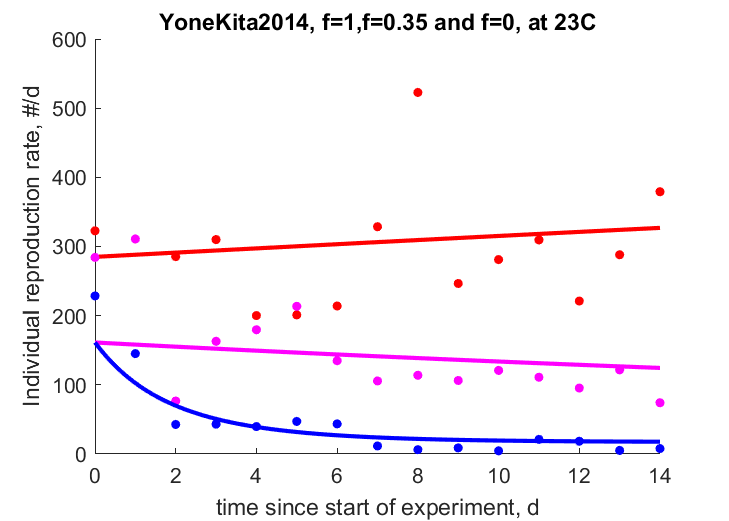
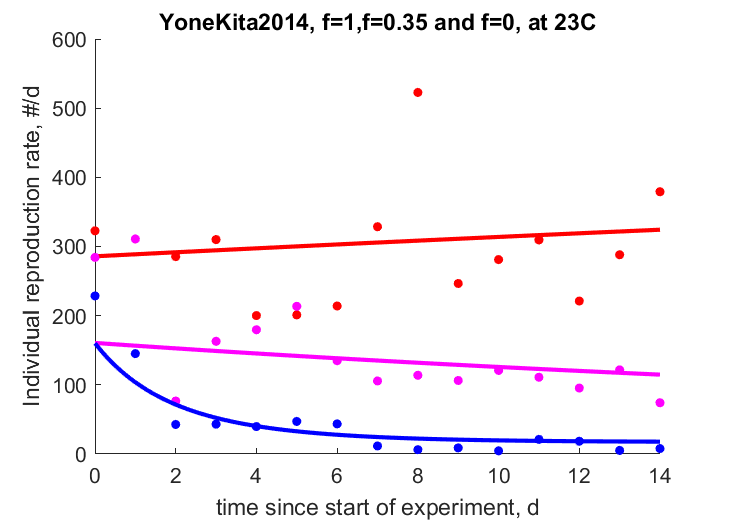
Reintroduced del_Mb for 0var data

diff --git a/Engraulis_japonicus_res.html b/Engraulis_japonicus_res.html
@@ -44,7 +44,7 @@
   </div>
 
   <div class="par">
-  <h4>COMPLETE = 3.0; MRE =    0.131; SMSE =    0.169 </h4>
+  <h4>COMPLETE = 3.0; MRE =    0.156; SMSE =    0.174 </h4>
   </div>
 
   <p class="clear"></p>
@@ -53,38 +53,38 @@
   <h2>Data & predictions</h2>
   <TABLE id="prd">
     <TR  class="head"><TH>data</TH> <TH>prd</TH> <TH>RE</TH>  <TH>symbol</TH> <TH>units</TH> <TH>description</TH> </TR>
-    <TR><TD>3.3</TD> <TD>3.91</TD> <TD>0.1849</TD> <TD>ab</TD> <TD>d</TD> <TD>age at birth</TD></TR>
-    <TR><TD> 29</TD> <TD>26.66</TD> <TD>0.08077</TD> <TD>tj</TD> <TD>d</TD> <TD>age at metamorphosis</TD></TR>
-    <TR><TD> 96</TD> <TD>96.04</TD> <TD>0.0004378</TD> <TD>tp_20</TD> <TD>d</TD> <TD>time since birth at puberty</TD></TR>
-    <TR><TD> 88</TD> <TD>89.68</TD> <TD>0.0191</TD> <TD>tp_m20</TD> <TD>d</TD> <TD>time since birth at puberty</TD></TR>
-    <TR><TD> 65</TD> <TD>61.41</TD> <TD>0.05524</TD> <TD>tp_26</TD> <TD>d</TD> <TD>time since birth at puberty</TD></TR>
-    <TR><TD> 60</TD> <TD>57.34</TD> <TD>0.04431</TD> <TD>tp_m26</TD> <TD>d</TD> <TD>time since birth at puberty</TD></TR>
-    <TR><TD>1462</TD> <TD>1464</TD> <TD>0.001709</TD> <TD>am</TD> <TD>d</TD> <TD>life span</TD></TR>
-    <TR><TD>0.3347</TD> <TD>0.3348</TD> <TD>0.0002522</TD> <TD>Lb</TD> <TD>cm</TD> <TD>standard length at birth</TD></TR>
-    <TR><TD>2.64</TD> <TD>2.647</TD> <TD>0.002749</TD> <TD>Lj</TD> <TD>cm</TD> <TD>standard length at metamorphosis</TD></TR>
-    <TR><TD>  7</TD> <TD>7.551</TD> <TD>0.07866</TD> <TD>Lp</TD> <TD>cm</TD> <TD>standard length at puberty</TD></TR>
-    <TR><TD>  7</TD> <TD>7.18</TD> <TD>0.02578</TD> <TD>Lp_m</TD> <TD>cm</TD> <TD>standard length at puberty</TD></TR>
-    <TR><TD>15.22</TD> <TD>14.18</TD> <TD>0.06827</TD> <TD>Li</TD> <TD>cm</TD> <TD>ultimate standard length</TD></TR>
-    <TR><TD>0.00025</TD> <TD>0.0002427</TD> <TD>0.02905</TD> <TD>Wwb</TD> <TD>g</TD> <TD>wet weight at birth</TD></TR>
-    <TR><TD> 45</TD> <TD>44.95</TD> <TD>0.001105</TD> <TD>Wwi</TD> <TD>g</TD> <TD>ultimate wet weight</TD></TR>
-    <TR><TD>600</TD> <TD>590.2</TD> <TD>0.01628</TD> <TD>Ri</TD> <TD>#/d</TD> <TD>maximum reprod rate</TD></TR>
-    <TR><TD colspan="2">see figure</TD> <TD>0.01218</TD> <TD>Tah</TD> <TD colspan="2">temperature, <font color="blue"><i>vs.</i></font> age at hatching</TD>
-    <TR><TD colspan="2">see figure</TD> <TD>0.2418</TD> <TD>tR_f1_19</TD> <TD colspan="2">time since start of experiment, <font color="blue"><i>vs.</i></font> Individual reproduction rate</TD>
-    <TR><TD colspan="2">see figure</TD> <TD>0.2036</TD> <TD>tR_f1_23</TD> <TD colspan="2">time since start of experiment, <font color="blue"><i>vs.</i></font> Individual reproduction rate</TD>
-    <TR><TD colspan="2">see figure</TD> <TD>0.4004</TD> <TD>tR_f35_19</TD> <TD colspan="2">time since start of experiment, <font color="blue"><i>vs.</i></font> Individual reproduction rate</TD>
-    <TR><TD colspan="2">see figure</TD> <TD>0.3092</TD> <TD>tR_f35_23</TD> <TD colspan="2">time since start of experiment, <font color="blue"><i>vs.</i></font> Individual reproduction rate</TD>
-    <TR><TD colspan="2">see figure</TD> <TD>0.7612</TD> <TD>tR_f0_19</TD> <TD colspan="2">time since start of experiment, <font color="blue"><i>vs.</i></font> Individual reproduction rate</TD>
-    <TR><TD colspan="2">see figure</TD> <TD>0.3806</TD> <TD>tR_f0_23</TD> <TD colspan="2">time since start of experiment, <font color="blue"><i>vs.</i></font> Individual reproduction rate</TD>
-    <TR><TD colspan="2">see figure</TD> <TD>0.1036</TD> <TD>tL</TD> <TD colspan="2">time since birth, <font color="blue"><i>vs.</i></font> standard length</TD>
-    <TR><TD colspan="2">see figure</TD> <TD>0.1129</TD> <TD>tL_juv</TD> <TD colspan="2">time since birth, <font color="blue"><i>vs.</i></font> standard length</TD>
-    <TR><TD colspan="2">see figure</TD> <TD>0.1736</TD> <TD>LW</TD> <TD colspan="2">standard length, <font color="blue"><i>vs.</i></font> wet weight</TD>
-    <TR><TD colspan="2">see figure</TD> <TD>0.1079</TD> <TD>LWw</TD> <TD colspan="2">standard length, <font color="blue"><i>vs.</i></font> wet weight</TD>
-    <TR class="psd"><TD>0.02</TD> <TD>0.03628</TD> <TD>0.8142</TD> <TD>psd.v</TD> <TD>cm/d</TD> <TD>energy conductance</TD></TR>
-    <TR class="psd"><TD>0.8</TD> <TD>0.8333</TD> <TD>0.04158</TD> <TD>psd.kap</TD> <TD>-</TD> <TD>allocation fraction to soma</TD></TR>
+    <TR><TD>3.3</TD> <TD>3.942</TD> <TD>0.1945</TD> <TD>ab</TD> <TD>d</TD> <TD>age at birth</TD></TR>
+    <TR><TD> 29</TD> <TD>29.11</TD> <TD>0.003913</TD> <TD>tj</TD> <TD>d</TD> <TD>age at metamorphosis</TD></TR>
+    <TR><TD> 96</TD> <TD>90.96</TD> <TD>0.05251</TD> <TD>tp_20</TD> <TD>d</TD> <TD>time since birth at puberty</TD></TR>
+    <TR><TD> 88</TD> <TD>85.34</TD> <TD>0.03024</TD> <TD>tp_m20</TD> <TD>d</TD> <TD>time since birth at puberty</TD></TR>
+    <TR><TD> 65</TD> <TD> 61</TD> <TD>0.06151</TD> <TD>tp_26</TD> <TD>d</TD> <TD>time since birth at puberty</TD></TR>
+    <TR><TD> 60</TD> <TD>57.23</TD> <TD>0.04611</TD> <TD>tp_m26</TD> <TD>d</TD> <TD>time since birth at puberty</TD></TR>
+    <TR><TD>1462</TD> <TD>1341</TD> <TD>0.08248</TD> <TD>am</TD> <TD>d</TD> <TD>life span</TD></TR>
+    <TR><TD>0.3347</TD> <TD>0.3769</TD> <TD>0.1259</TD> <TD>Lb</TD> <TD>cm</TD> <TD>standard length at birth</TD></TR>
+    <TR><TD>2.64</TD> <TD>2.332</TD> <TD>0.1166</TD> <TD>Lj</TD> <TD>cm</TD> <TD>standard length at metamorphosis</TD></TR>
+    <TR><TD>  7</TD> <TD>8.058</TD> <TD>0.1512</TD> <TD>Lp</TD> <TD>cm</TD> <TD>standard length at puberty</TD></TR>
+    <TR><TD>  7</TD> <TD>7.696</TD> <TD>0.09943</TD> <TD>Lp_m</TD> <TD>cm</TD> <TD>standard length at puberty</TD></TR>
+    <TR><TD>15.22</TD> <TD>13.97</TD> <TD>0.08207</TD> <TD>Li</TD> <TD>cm</TD> <TD>ultimate standard length</TD></TR>
+    <TR><TD>0.00025</TD> <TD>0.0002234</TD> <TD>0.1063</TD> <TD>Wwb</TD> <TD>g</TD> <TD>wet weight at birth</TD></TR>
+    <TR><TD> 45</TD> <TD>45.92</TD> <TD>0.02034</TD> <TD>Wwi</TD> <TD>g</TD> <TD>ultimate wet weight</TD></TR>
+    <TR><TD>600</TD> <TD>582.5</TD> <TD>0.02916</TD> <TD>Ri</TD> <TD>#/d</TD> <TD>maximum reprod rate</TD></TR>
+    <TR><TD colspan="2">see figure</TD> <TD>0.03983</TD> <TD>Tah</TD> <TD colspan="2">temperature, <font color="blue"><i>vs.</i></font> age at hatching</TD>
+    <TR><TD colspan="2">see figure</TD> <TD>0.2398</TD> <TD>tR_f1_19</TD> <TD colspan="2">time since start of experiment, <font color="blue"><i>vs.</i></font> Individual reproduction rate</TD>
+    <TR><TD colspan="2">see figure</TD> <TD>0.2007</TD> <TD>tR_f1_23</TD> <TD colspan="2">time since start of experiment, <font color="blue"><i>vs.</i></font> Individual reproduction rate</TD>
+    <TR><TD colspan="2">see figure</TD> <TD>0.3839</TD> <TD>tR_f35_19</TD> <TD colspan="2">time since start of experiment, <font color="blue"><i>vs.</i></font> Individual reproduction rate</TD>
+    <TR><TD colspan="2">see figure</TD> <TD>0.293</TD> <TD>tR_f35_23</TD> <TD colspan="2">time since start of experiment, <font color="blue"><i>vs.</i></font> Individual reproduction rate</TD>
+    <TR><TD colspan="2">see figure</TD> <TD>0.7501</TD> <TD>tR_f0_19</TD> <TD colspan="2">time since start of experiment, <font color="blue"><i>vs.</i></font> Individual reproduction rate</TD>
+    <TR><TD colspan="2">see figure</TD> <TD>0.3756</TD> <TD>tR_f0_23</TD> <TD colspan="2">time since start of experiment, <font color="blue"><i>vs.</i></font> Individual reproduction rate</TD>
+    <TR><TD colspan="2">see figure</TD> <TD>0.09927</TD> <TD>tL</TD> <TD colspan="2">time since birth, <font color="blue"><i>vs.</i></font> standard length</TD>
+    <TR><TD colspan="2">see figure</TD> <TD>0.1521</TD> <TD>tL_juv</TD> <TD colspan="2">time since birth, <font color="blue"><i>vs.</i></font> standard length</TD>
+    <TR><TD colspan="2">see figure</TD> <TD>0.2157</TD> <TD>LW</TD> <TD colspan="2">standard length, <font color="blue"><i>vs.</i></font> wet weight</TD>
+    <TR><TD colspan="2">see figure</TD> <TD>0.1107</TD> <TD>LWw</TD> <TD colspan="2">standard length, <font color="blue"><i>vs.</i></font> wet weight</TD>
+    <TR class="psd"><TD>0.02</TD> <TD>0.03659</TD> <TD>0.8295</TD> <TD>psd.v</TD> <TD>cm/d</TD> <TD>energy conductance</TD></TR>
+    <TR class="psd"><TD>0.8</TD> <TD>0.8814</TD> <TD>0.1018</TD> <TD>psd.kap</TD> <TD>-</TD> <TD>allocation fraction to soma</TD></TR>
     <TR class="psd"><TD>0.95</TD> <TD>0.95</TD> <TD>  0</TD> <TD>psd.kap_R</TD> <TD>-</TD> <TD>reproduction efficiency</TD></TR>
-    <TR class="psd"><TD> 18</TD> <TD>206.4</TD> <TD>10.47</TD> <TD>psd.p_M</TD> <TD>J/d.cm^3</TD> <TD>vol-spec som maint</TD></TR>
+    <TR class="psd"><TD> 18</TD> <TD>257.5</TD> <TD>13.31</TD> <TD>psd.p_M</TD> <TD>J/d.cm^3</TD> <TD>vol-spec som maint</TD></TR>
     <TR class="psd"><TD>0.002</TD> <TD>0.002</TD> <TD>  0</TD> <TD>psd.k_J</TD> <TD>1/d</TD> <TD>maturity maint rate coefficient</TD></TR>
-    <TR class="psd"><TD>0.8</TD> <TD>0.8013</TD> <TD>0.00161</TD> <TD>psd.kap_G</TD> <TD>-</TD> <TD>growth efficiency</TD></TR>
+    <TR class="psd"><TD>0.8</TD> <TD>0.7999</TD> <TD>0.0001231</TD> <TD>psd.kap_G</TD> <TD>-</TD> <TD>growth efficiency</TD></TR>
   </TABLE>
   </div>
 
@@ -93,34 +93,33 @@
   <TABLE id="par">
     <TR class="head"><TH>symbol</TH> <TH>units</TH> <TH>value</TH>  <TH>free</TH> <TH>description</TH> </TR>
     <TR><TD>T_ref</TD> <TD>K</TD> <TD>293.1</TD> <TD>0</TD> <TD>Reference temperature</TD></TR>
-    <TR><TD>T_A</TD> <TD>K</TD> <TD>6572</TD> <TD>1</TD> <TD>Arrhenius temp</TD></TR>
-    <TR><TD>z</TD> <TD>-</TD> <TD>0.5876</TD> <TD>1</TD> <TD>zoom factor</TD></TR>
+    <TR><TD>T_A</TD> <TD>K</TD> <TD>5871</TD> <TD>1</TD> <TD>Arrhenius temp</TD></TR>
+    <TR><TD>z</TD> <TD>-</TD> <TD>0.4738</TD> <TD>1</TD> <TD>zoom factor</TD></TR>
     <TR><TD>F_m</TD> <TD>l/d.cm^2</TD> <TD>6.5</TD> <TD>0</TD> <TD>{F_m}, max spec searching rate</TD></TR>
     <TR><TD>kap_X</TD> <TD>-</TD> <TD>0.8</TD> <TD>0</TD> <TD>digestion efficiency of food to reserve</TD></TR>
     <TR><TD>kap_P</TD> <TD>-</TD> <TD>0.1</TD> <TD>0</TD> <TD>faecation efficiency of food to faeces</TD></TR>
-    <TR><TD>v</TD> <TD>cm/d</TD> <TD>0.03628</TD> <TD>1</TD> <TD>energy conductance</TD></TR>
-    <TR><TD>kap</TD> <TD>-</TD> <TD>0.8333</TD> <TD>1</TD> <TD>allocation fraction to soma</TD></TR>
+    <TR><TD>v</TD> <TD>cm/d</TD> <TD>0.03659</TD> <TD>1</TD> <TD>energy conductance</TD></TR>
+    <TR><TD>kap</TD> <TD>-</TD> <TD>0.8814</TD> <TD>1</TD> <TD>allocation fraction to soma</TD></TR>
     <TR><TD>kap_R</TD> <TD>-</TD> <TD>0.95</TD> <TD>0</TD> <TD>reproduction efficiency</TD></TR>
-    <TR><TD>p_M</TD> <TD>J/d.cm^3</TD> <TD>206.4</TD> <TD>1</TD> <TD>[p_M], vol-spec somatic maint</TD></TR>
+    <TR><TD>p_M</TD> <TD>J/d.cm^3</TD> <TD>257.5</TD> <TD>1</TD> <TD>[p_M], vol-spec somatic maint</TD></TR>
     <TR><TD>p_T</TD> <TD>J/d.cm^2</TD> <TD>  0</TD> <TD>0</TD> <TD>{p_T}, surf-spec somatic maint</TD></TR>
     <TR><TD>k_J</TD> <TD>1/d</TD> <TD>0.002</TD> <TD>0</TD> <TD>maturity maint rate coefficient</TD></TR>
-    <TR><TD>E_G</TD> <TD>J/cm^3</TD> <TD>5222</TD> <TD>1</TD> <TD>[E_G], spec cost for structure</TD></TR>
-    <TR><TD>E_Hb</TD> <TD>J</TD> <TD>0.1445</TD> <TD>1</TD> <TD>maturity at birth</TD></TR>
-    <TR><TD>E_Hj</TD> <TD>J</TD> <TD>18.37</TD> <TD>1</TD> <TD>maturity at metam</TD></TR>
-    <TR><TD>E_Hp</TD> <TD>J</TD> <TD>7788</TD> <TD>1</TD> <TD>maturity at puberty</TD></TR>
+    <TR><TD>E_G</TD> <TD>J/cm^3</TD> <TD>5231</TD> <TD>1</TD> <TD>[E_G], spec cost for structure</TD></TR>
+    <TR><TD>E_Hb</TD> <TD>J</TD> <TD>0.09333</TD> <TD>1</TD> <TD>maturity at birth</TD></TR>
+    <TR><TD>E_Hj</TD> <TD>J</TD> <TD>24.17</TD> <TD>1</TD> <TD>maturity at metam</TD></TR>
+    <TR><TD>E_Hp</TD> <TD>J</TD> <TD>7627</TD> <TD>1</TD> <TD>maturity at puberty</TD></TR>
     <TR><TD>h_a</TD> <TD>1/d^2</TD> <TD>3.179e-08</TD> <TD>0</TD> <TD>Weibull aging acceleration</TD></TR>
     <TR><TD>s_G</TD> <TD>-</TD> <TD>0.0001</TD> <TD>0</TD> <TD>Gompertz stress coefficient</TD></TR>
-    <TR><TD>E_Hh</TD> <TD>J</TD> <TD>0.0003578</TD> <TD>1</TD> <TD>maturity at hatching</TD></TR>
-    <TR><TD>E_Hpm</TD> <TD>J</TD> <TD>6411</TD> <TD>1</TD> <TD>maturity at puberty for males</TD></TR>
-    <TR><TD>del_M</TD> <TD>-</TD> <TD>0.2035</TD> <TD>1</TD> <TD>shape coefficient for standard length</TD></TR>
-    <TR><TD>del_M_b</TD> <TD>-</TD> <TD>0.1512</TD> <TD>1</TD> <TD>shape coefficient at birth</TD></TR>
-    <TR><TD>del_M_j</TD> <TD>-</TD> <TD>0.09388</TD> <TD>1</TD> <TD>shape coefficient at metamorphosis</TD></TR>
+    <TR><TD>E_Hh</TD> <TD>J</TD> <TD>0.0002108</TD> <TD>1</TD> <TD>maturity at hatching</TD></TR>
+    <TR><TD>E_Hpm</TD> <TD>J</TD> <TD>6341</TD> <TD>1</TD> <TD>maturity at puberty for males</TD></TR>
+    <TR><TD>del_M</TD> <TD>-</TD> <TD>0.2098</TD> <TD>1</TD> <TD>shape coefficient for standard length</TD></TR>
+    <TR><TD>del_Mb</TD> <TD>-</TD> <TD>0.1318</TD> <TD>1</TD> <TD>shape coefficient for pre-metamorphosis</TD></TR>
     <TR><TD>f</TD> <TD>-</TD> <TD>  1</TD> <TD>0</TD> <TD>scaled functional response for 0-var data</TD></TR>
-    <TR><TD>f_0</TD> <TD>-</TD> <TD>0.3439</TD> <TD>1</TD> <TD>scaled functional response for N-T 0 food data</TD></TR>
-    <TR><TD>f_35</TD> <TD>-</TD> <TD>0.3439</TD> <TD>1</TD> <TD>scaled functional response for N-T low food data</TD></TR>
-    <TR><TD>f_LWw</TD> <TD>-</TD> <TD>0.1721</TD> <TD>1</TD> <TD>scaled functional response for length-weight data in Wakasa Bay</TD></TR>
-    <TR><TD>f_tL</TD> <TD>-</TD> <TD>0.5003</TD> <TD>1</TD> <TD>scaled functional response for tL data</TD></TR>
-    <TR><TD>f_tR</TD> <TD>-</TD> <TD>1.002</TD> <TD>1</TD> <TD>scaled functional response for ad libitum part of tN-data experiments</TD></TR>
+    <TR><TD>f_0</TD> <TD>-</TD> <TD>0.3515</TD> <TD>1</TD> <TD>scaled functional response for N-T 0 food data</TD></TR>
+    <TR><TD>f_35</TD> <TD>-</TD> <TD>0.3515</TD> <TD>1</TD> <TD>scaled functional response for N-T low food data</TD></TR>
+    <TR><TD>f_LWw</TD> <TD>-</TD> <TD>-0.003458</TD> <TD>1</TD> <TD>scaled functional response for length-weight data in Wakasa Bay</TD></TR>
+    <TR><TD>f_tL</TD> <TD>-</TD> <TD>0.4907</TD> <TD>1</TD> <TD>scaled functional response for tL data</TD></TR>
+    <TR><TD>f_tR</TD> <TD>-</TD> <TD>0.9523</TD> <TD>1</TD> <TD>scaled functional response for ad libitum part of tN-data experiments</TD></TR>
     <TR><TD>t_0</TD> <TD>d</TD> <TD>  1</TD> <TD>0</TD> <TD>time at start development at 20 C</TD></TR>
   </TABLE>
   </div>

diff --git a/pars_init_Engraulis_japonicus.m b/pars_init_Engraulis_japonicus.m
@@ -28,8 +28,7 @@ par.s_G = 0.0001;     free.s_G   = 0;   units.s_G = '-';          label.s_G = 'G
 par.E_Hh = 1.775e-04; free.E_Hh  = 1;   units.E_Hh = 'J';         label.E_Hh = 'maturity at hatching'; 
 par.E_Hpm = 5.639e+03; free.E_Hpm = 1;   units.E_Hpm = 'J';        label.E_Hpm = 'maturity at puberty for males'; 
 par.del_M = 0.20973;  free.del_M = 1;   units.del_M = '-';        label.del_M = 'shape coefficient for standard length'; 
-par.del_M_b = 0.14556;  free.del_M_b = 1;   units.del_M_b = '-';      label.del_M_b = 'shape coefficient at birth'; 
-par.del_M_j = 0.11217;  free.del_M_j = 1;   units.del_M_j = '-';      label.del_M_j = 'shape coefficient at metamorphosis'; 
+par.del_Mb = 0.15;    free.del_Mb = 1;  units.del_Mb = '-';       label.del_Mb = 'shape coefficient for pre-metamorphosis'; 
 par.f = 1;            free.f     = 0;   units.f = '-';            label.f = 'scaled functional response for 0-var data'; 
 par.f_0 = 0.36895;    free.f_0   = 1;   units.f_0 = '-';          label.f_0 = 'scaled functional response for N-T 0 food data'; 
 par.f_35 = 0.36896;   free.f_35  = 1;   units.f_35 = '-';         label.f_35 = 'scaled functional response for N-T low food data'; 

diff --git a/predict_Engraulis_japonicus.m b/predict_Engraulis_japonicus.m
@@ -40,13 +40,13 @@ end
 
   % birth
   L_b = L_m * l_b;                 % cm, structural length at birth 
-  Lw_b = L_b/ del_M_b;               % cm, standard length at birth
+  Lw_b = L_b/ del_Mb;               % cm, standard length at birth
   Ww_b = L_b^3 * (1 + f * ome);      % g, wet weight at birth
   aT_b = tau_b/ k_M/ TC_ab;          % d, age at birth of foetus at f and T
   
   % metam
   L_j = L_m * l_j;                  % cm, structural length at metam
-  Lw_j = L_j/ del_M_j;                % cm, standard length at metam
+  Lw_j = L_j/ del_Mb;                % cm, standard length at metam
   tT_j = tau_j/ k_M/ TC_tj;          % d, age at birth of foetus at f and T
 
   % puberty 

diff --git a/run_Engraulis_japonicus.m b/run_Engraulis_japonicus.m
@@ -9,7 +9,7 @@ estim_options('max_step_number', 5e3);
 estim_options('max_fun_evals', 5e3); 
 
 estim_options('pars_init_method', 1); 
-estim_options('results_output', 6); 
-estim_options('method', 'no'); 
+estim_options('results_output', 2); 
+estim_options('method', 'nm'); 
 
 estim_pars; 
